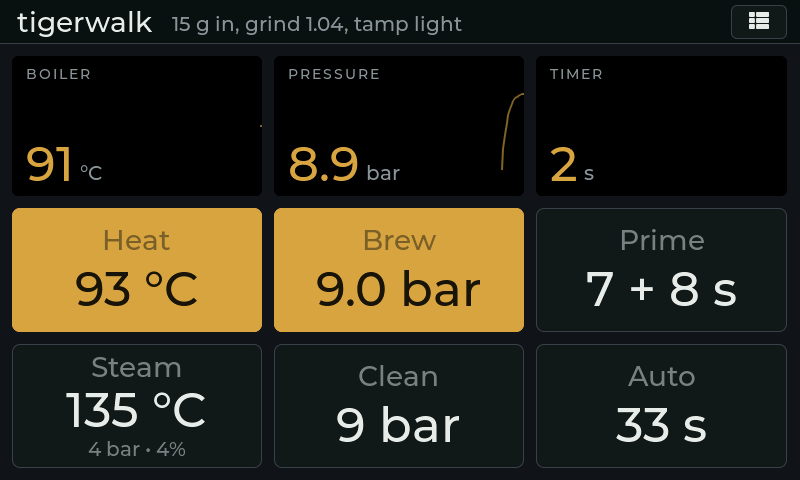
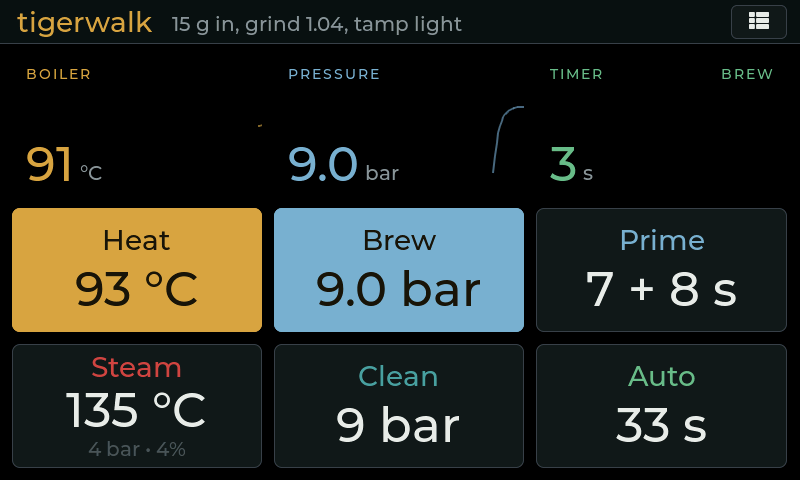
ui: menu available during actions; graph outputs scaled to full height, pressure 0-14 bar; a color per action (warm heat, red steam, blue water, teal clean, green auto/timer)
Claude-Session: https://claude.ai/code/session_016XyD3ZMrdy4hijk3p6yM2m

diff --git a/gaggiano-v2/lv_buildUI.c b/gaggiano-v2/lv_buildUI.c
@@ -470,14 +470,9 @@ static void delete_btn_clicked(lv_event_t* e) {
   }
 }
 
-// While an action runs the other views are not reachable: the menu is disabled.
-void disableTabs() {
-  lv_obj_add_state(menuDd, LV_STATE_DISABLED);
-}
-
-void enableTabs() {
-  lv_obj_clear_state(menuDd, LV_STATE_DISABLED);
-}
+// The other views stay reachable while an action runs (the graph is useful then).
+void disableTabs() {}
+void enableTabs() {}
 
 static void title_clicked(lv_event_t* e) {
   (void)e;
@@ -705,10 +700,12 @@ void updateUI() {
     lv_chart_set_next_value(temp_chart, temp_ser, (lv_coord_t)(state->tempRead * 10));
   }
   bool running = state->actionStartTime > 0 && state->actionStopTime == 0;
-  theme_set_hot(temp_label, temp_chart, temp_ser, state->isBoilerOn || state->isSteaming);
+  theme_set_hot(temp_label, temp_chart, temp_ser, state->isBoilerOn || state->isSteaming,
+                state->isSteaming ? theme_steam() : theme_amber());
   theme_set_hot(press_label, press_chart, press_ser,
-                state->isSolenoidOn || state->isBrewing || state->isCleaning || state->isBlooming || state->isAuto);
-  theme_set_hot(time_label, NULL, NULL, running);
+                state->isSolenoidOn || state->isBrewing || state->isCleaning || state->isBlooming || state->isAuto,
+                theme_pressure());
+  theme_set_hot(time_label, NULL, NULL, running, theme_pump());
 
   // Bloom and auto end on their own (sequencer): release the buttons and the menu
   // the way a manual stop does.
@@ -749,7 +746,7 @@ void updateUI() {
   else if (state->isSteaming) phase = "STEAM";
   if (phase != NULL) {
     lv_label_set_text(time_sub_label, phase);
-    lv_obj_set_style_text_color(time_sub_label, theme_amber(), 0);
+    lv_obj_set_style_text_color(time_sub_label, theme_pump(), 0);
   } else if (state->lastBrewTime > 0) {
     lv_label_set_text_fmt(time_sub_label, "LAST SHOT %.0f S", state->lastBrewTime);
     lv_obj_set_style_text_color(time_sub_label, theme_muted(), 0);
@@ -763,9 +760,10 @@ void updateUI() {
   {
     lv_obj_t* btns[6] = { heat_btn, brew_btn, prime_btn, boil_btn, clean_btn, auto_btn };
     lv_obj_t* values[6] = { heat_btn_label, brew_btn_label, prime_btn_label, boil_btn_label, clean_btn_label, auto_btn_label };
+    lv_color_t idle[6] = { theme_amber(), theme_pressure(), theme_pressure(), theme_steam(), theme_clean(), theme_pump() };
     for (int i = 0; i < 6; i++) {
       theme_set_btn_labels(btn_names[i], values[i], btns[i] == boil_btn ? boil_btn_sub : NULL,
-                           lv_obj_has_state(btns[i], LV_STATE_CHECKED));
+                           lv_obj_has_state(btns[i], LV_STATE_CHECKED), idle[i]);
     }
   }
 
@@ -947,7 +945,7 @@ void instantiateUI(GaggiaStateT* s,
  **********************/
 
 // One reading tile: curve behind, label top-left, big value + unit bottom-left.
-static lv_obj_t* tile_create(lv_obj_t* parent, const char* name, const char* unit, lv_obj_t** value_out,
+static lv_obj_t* tile_create(lv_obj_t* parent, const char* name, const char* unit, lv_color_t color, lv_obj_t** value_out,
                              lv_obj_t** chart_out, lv_chart_series_t** ser_out, lv_coord_t range_min, lv_coord_t range_max) {
   lv_obj_t* tile = lv_obj_create(parent);
   theme_apply_tile(tile);
@@ -967,6 +965,7 @@ static lv_obj_t* tile_create(lv_obj_t* parent, const char* name, const char* uni
 
   lv_obj_t* label = lv_label_create(tile);
   theme_apply_tile_label(label);
+  lv_obj_set_style_text_color(label, color, 0);
   lv_label_set_text(label, name);
   lv_obj_align(label, LV_ALIGN_TOP_LEFT, 14, 10);
 
@@ -991,9 +990,9 @@ static lv_obj_t* tile_create(lv_obj_t* parent, const char* name, const char* uni
 }
 
 // One action button: name over value.
-static lv_obj_t* action_btn_create(lv_obj_t* parent, const char* name, bool steam, lv_obj_t** value_out, lv_obj_t** sub_out) {
+static lv_obj_t* action_btn_create(lv_obj_t* parent, const char* name, lv_color_t color, lv_obj_t** value_out, lv_obj_t** sub_out) {
   lv_obj_t* btn = lv_btn_create(parent);
-  theme_apply_btn(btn, steam);
+  theme_apply_btn(btn, color);
   lv_obj_add_flag(btn, LV_OBJ_FLAG_CHECKABLE);
   lv_obj_add_event_cb(btn, main_btn_clicked, LV_EVENT_ALL, NULL);
   lv_obj_set_flex_flow(btn, LV_FLEX_FLOW_COLUMN);
@@ -1029,11 +1028,12 @@ static void main_create(lv_obj_t* parent) {
   static lv_coord_t row_dsc[] = { TILE_H, LV_GRID_FR(1), LV_GRID_FR(1), LV_GRID_TEMPLATE_LAST };
   lv_obj_set_grid_dsc_array(parent, col_dsc, row_dsc);
 
-  lv_obj_t* temp_tile = tile_create(parent, "BOILER", "°C", &temp_label, &temp_chart, &temp_ser, 20 * 10, 160 * 10);
-  lv_obj_t* press_tile = tile_create(parent, "PRESSURE", "bar", &press_label, &press_chart, &press_ser, 0, 12 * 10);
-  lv_obj_t* time_tile = tile_create(parent, "TIMER", "s", &time_label, NULL, NULL, 0, 0);
+  lv_obj_t* temp_tile = tile_create(parent, "BOILER", "°C", theme_amber(), &temp_label, &temp_chart, &temp_ser, 20 * 10, 160 * 10);
+  lv_obj_t* press_tile = tile_create(parent, "PRESSURE", "bar", theme_pressure(), &press_label, &press_chart, &press_ser, 0, 14 * 10);
+  lv_obj_t* time_tile = tile_create(parent, "TIMER", "s", theme_pump(), &time_label, NULL, NULL, 0, 0);
   time_sub_label = lv_label_create(time_tile);
   theme_apply_tile_label(time_sub_label);
+  lv_obj_set_style_text_color(time_sub_label, theme_pump(), 0);
   lv_label_set_text(time_sub_label, "");
   lv_obj_align(time_sub_label, LV_ALIGN_TOP_RIGHT, -14, 10);
 
@@ -1041,13 +1041,13 @@ static void main_create(lv_obj_t* parent) {
   lv_obj_set_grid_cell(press_tile, LV_GRID_ALIGN_STRETCH, 1, 1, LV_GRID_ALIGN_STRETCH, 0, 1);
   lv_obj_set_grid_cell(time_tile, LV_GRID_ALIGN_STRETCH, 2, 1, LV_GRID_ALIGN_STRETCH, 0, 1);
 
-  heat_btn = action_btn_create(parent, "Heat", false, &heat_btn_label, NULL);
-  brew_btn = action_btn_create(parent, "Brew", false, &brew_btn_label, NULL);
-  prime_btn = action_btn_create(parent, "Prime", false, &prime_btn_label, NULL);
-  boil_btn = action_btn_create(parent, "Steam", true, &boil_btn_label, &boil_btn_sub);
+  heat_btn = action_btn_create(parent, "Heat", theme_amber(), &heat_btn_label, NULL);
+  brew_btn = action_btn_create(parent, "Brew", theme_pressure(), &brew_btn_label, NULL);
+  prime_btn = action_btn_create(parent, "Prime", theme_pressure(), &prime_btn_label, NULL);
+  boil_btn = action_btn_create(parent, "Steam", theme_steam(), &boil_btn_label, &boil_btn_sub);
   lv_obj_set_style_pad_row(boil_btn, 2, 0);  // three lines have to fit
-  clean_btn = action_btn_create(parent, "Clean", false, &clean_btn_label, NULL);
-  auto_btn = action_btn_create(parent, "Auto", false, &auto_btn_label, NULL);
+  clean_btn = action_btn_create(parent, "Clean", theme_clean(), &clean_btn_label, NULL);
+  auto_btn = action_btn_create(parent, "Auto", theme_pump(), &auto_btn_label, NULL);
   lv_label_set_text(clean_btn_label, "9 bar");
 
   lv_obj_set_grid_cell(heat_btn, LV_GRID_ALIGN_STRETCH, 0, 1, LV_GRID_ALIGN_STRETCH, 1, 1);
@@ -1082,8 +1082,8 @@ static void graph_create(lv_obj_t* parent) {
   lv_obj_set_flex_grow(graph_chart, 1);
   lv_chart_set_point_count(graph_chart, HISTORY_CAPACITY);
   lv_chart_set_update_mode(graph_chart, LV_CHART_UPDATE_MODE_SHIFT);
-  lv_chart_set_range(graph_chart, LV_CHART_AXIS_PRIMARY_Y, 0, 160);    // °C, and percent for the outputs
-  lv_chart_set_range(graph_chart, LV_CHART_AXIS_SECONDARY_Y, 0, 120);  // bar x10
+  lv_chart_set_range(graph_chart, LV_CHART_AXIS_PRIMARY_Y, 0, 160);    // °C; outputs are scaled so 100 % is the top
+  lv_chart_set_range(graph_chart, LV_CHART_AXIS_SECONDARY_Y, 0, 140);  // bar x10
   g_boiler_ser = lv_chart_add_series(graph_chart, theme_heater(), LV_CHART_AXIS_PRIMARY_Y);
   g_pump_ser = lv_chart_add_series(graph_chart, theme_pump(), LV_CHART_AXIS_PRIMARY_Y);
   g_temp_ser = lv_chart_add_series(graph_chart, theme_amber(), LV_CHART_AXIS_PRIMARY_Y);
@@ -1102,7 +1102,7 @@ static void graph_create(lv_obj_t* parent) {
 
 static lv_color_t mode_color(int mode) {
   switch (mode) {
-    case 1: return theme_amber();
+    case 1: return theme_pressure();
     case 2: return theme_steam();
     case 3: return theme_clean();
     default: return lv_color_black();
@@ -1121,8 +1121,8 @@ static void graph_update(uint32_t now) {
   history_push(HISTORY_G_MODE, (float)state->ctrlMode);
   lv_chart_set_next_value(graph_chart, g_temp_ser, (lv_coord_t)state->tempRead);
   lv_chart_set_next_value(graph_chart, g_press_ser, (lv_coord_t)(state->pressureRead * 10));
-  lv_chart_set_next_value(graph_chart, g_boiler_ser, (lv_coord_t)state->boilerOut);
-  lv_chart_set_next_value(graph_chart, g_pump_ser, (lv_coord_t)(state->pumpOut * 100.0f / 127.0f));
+  lv_chart_set_next_value(graph_chart, g_boiler_ser, (lv_coord_t)(state->boilerOut * 1.6f));
+  lv_chart_set_next_value(graph_chart, g_pump_ser, (lv_coord_t)(state->pumpOut * 100.0f / 127.0f * 1.6f));
 
   if (lv_tabview_get_tab_act(tv) != 4) return;  // the rest is only drawn while the view is shown
 
@@ -1196,7 +1196,7 @@ static void profile_create(lv_obj_t* parent) {
   lv_obj_t** btns[] = { &fileName_btn, &duplicate_btn, &delete_btn };
   for (int i = 0; i < 3; i++) {
     lv_obj_t* btn = lv_btn_create(actions);
-    theme_apply_btn(btn, false);
+    theme_apply_btn(btn, theme_amber());
     lv_obj_set_width(btn, LV_PCT(100));
     lv_obj_set_flex_grow(btn, 1);
     lv_obj_add_event_cb(btn, cbs[i], LV_EVENT_ALL, NULL);
@@ -1258,7 +1258,7 @@ static lv_obj_t* column_create(lv_obj_t* parent, int col, int row) {
 
 static lv_obj_t* view_btn_create(lv_obj_t* parent, const char* text, lv_event_cb_t cb) {
   lv_obj_t* btn = lv_btn_create(parent);
-  theme_apply_btn(btn, false);
+  theme_apply_btn(btn, theme_amber());
   lv_obj_set_height(btn, 52);
   lv_obj_set_flex_grow(btn, 1);
   lv_obj_add_event_cb(btn, cb, LV_EVENT_ALL, NULL);

diff --git a/gaggiano-v2/theme.h b/gaggiano-v2/theme.h
@@ -34,7 +34,7 @@ void theme_init(void);  // call once after lv_init(), before building screens
 void theme_apply_screen(lv_obj_t *scr);
 void theme_apply_header(lv_obj_t *obj);           // header strip (the tab buttons area)
 void theme_apply_surface(lv_obj_t *obj);          // plain panel on the surface color
-void theme_apply_btn(lv_obj_t *btn, bool steam);  // idle / checked (amber or steam) / disabled
+void theme_apply_btn(lv_obj_t *btn, lv_color_t lit);  // idle / checked (filled with `lit`) / disabled
 void theme_apply_muted(lv_obj_t *label);          // secondary text
 void theme_apply_title(lv_obj_t *label);          // header title (profile name)
 void theme_apply_header_notes(lv_obj_t *label);   // notes after the title, one line
@@ -45,8 +45,8 @@ void theme_apply_tile_value(lv_obj_t *label);     // big reading
 void theme_apply_tile_unit(lv_obj_t *label);      // unit next to the reading
 void theme_apply_chart(lv_obj_t *chart);          // curve behind a tile: no grid, no points
 lv_chart_series_t *theme_chart_series(lv_obj_t *chart);
-void theme_set_hot(lv_obj_t *value, lv_obj_t *chart, lv_chart_series_t *ser, bool hot);  // amber while running
-void theme_set_btn_labels(lv_obj_t *name, lv_obj_t *value, lv_obj_t *sub, bool checked);  // name amber when idle, ink when lit
+void theme_set_hot(lv_obj_t *value, lv_obj_t *chart, lv_chart_series_t *ser, bool hot, lv_color_t color);  // colored while running
+void theme_set_btn_labels(lv_obj_t *name, lv_obj_t *value, lv_obj_t *sub, bool checked, lv_color_t idle);  // name colored when idle, ink when lit
 void theme_apply_btn_name(lv_obj_t *label);
 void theme_apply_btn_value(lv_obj_t *label);
 void theme_apply_btn_sub(lv_obj_t *label);        // small third line in a button

diff --git a/gaggiano-v2/theme.c b/gaggiano-v2/theme.c
@@ -285,20 +285,22 @@ lv_chart_series_t *theme_chart_series(lv_obj_t *chart) {
   return lv_chart_add_series(chart, steel_hi(), LV_CHART_AXIS_PRIMARY_Y);
 }
 
-void theme_set_btn_labels(lv_obj_t *name, lv_obj_t *value, lv_obj_t *sub, bool checked) {
+void theme_set_btn_labels(lv_obj_t *name, lv_obj_t *value, lv_obj_t *sub, bool checked, lv_color_t idle) {
   lv_color_t ink = amber_ink();
-  lv_obj_set_style_text_color(name, checked ? ink : theme_amber(), 0);
+  lv_obj_set_style_text_color(name, checked ? ink : idle, 0);
   if (value) lv_obj_set_style_text_color(value, checked ? ink : theme_text(), 0);
   if (sub) lv_obj_set_style_text_color(sub, checked ? ink : theme_muted(), 0);
 }
 
-void theme_set_hot(lv_obj_t *value, lv_obj_t *chart, lv_chart_series_t *ser, bool hot) {
-  lv_obj_set_style_text_color(value, hot ? theme_amber() : theme_text(), 0);
-  if (chart && ser) lv_chart_set_series_color(chart, ser, hot ? theme_amber() : steel_hi());
+void theme_set_hot(lv_obj_t *value, lv_obj_t *chart, lv_chart_series_t *ser, bool hot, lv_color_t color) {
+  lv_obj_set_style_text_color(value, hot ? color : theme_text(), 0);
+  if (chart && ser) lv_chart_set_series_color(chart, ser, hot ? color : steel_hi());
 }
 
-void theme_apply_btn(lv_obj_t *btn, bool steam) {
+void theme_apply_btn(lv_obj_t *btn, lv_color_t lit) {
   lv_obj_add_style(btn, &st_btn, 0);
-  lv_obj_add_style(btn, steam ? &st_btn_on_steam : &st_btn_on, LV_STATE_CHECKED);
+  lv_obj_add_style(btn, &st_btn_on, LV_STATE_CHECKED);
+  lv_obj_set_style_bg_color(btn, lit, LV_STATE_CHECKED);
+  lv_obj_set_style_border_color(btn, lit, LV_STATE_CHECKED);
   lv_obj_add_style(btn, &st_btn_dis, LV_STATE_DISABLED);
 }
